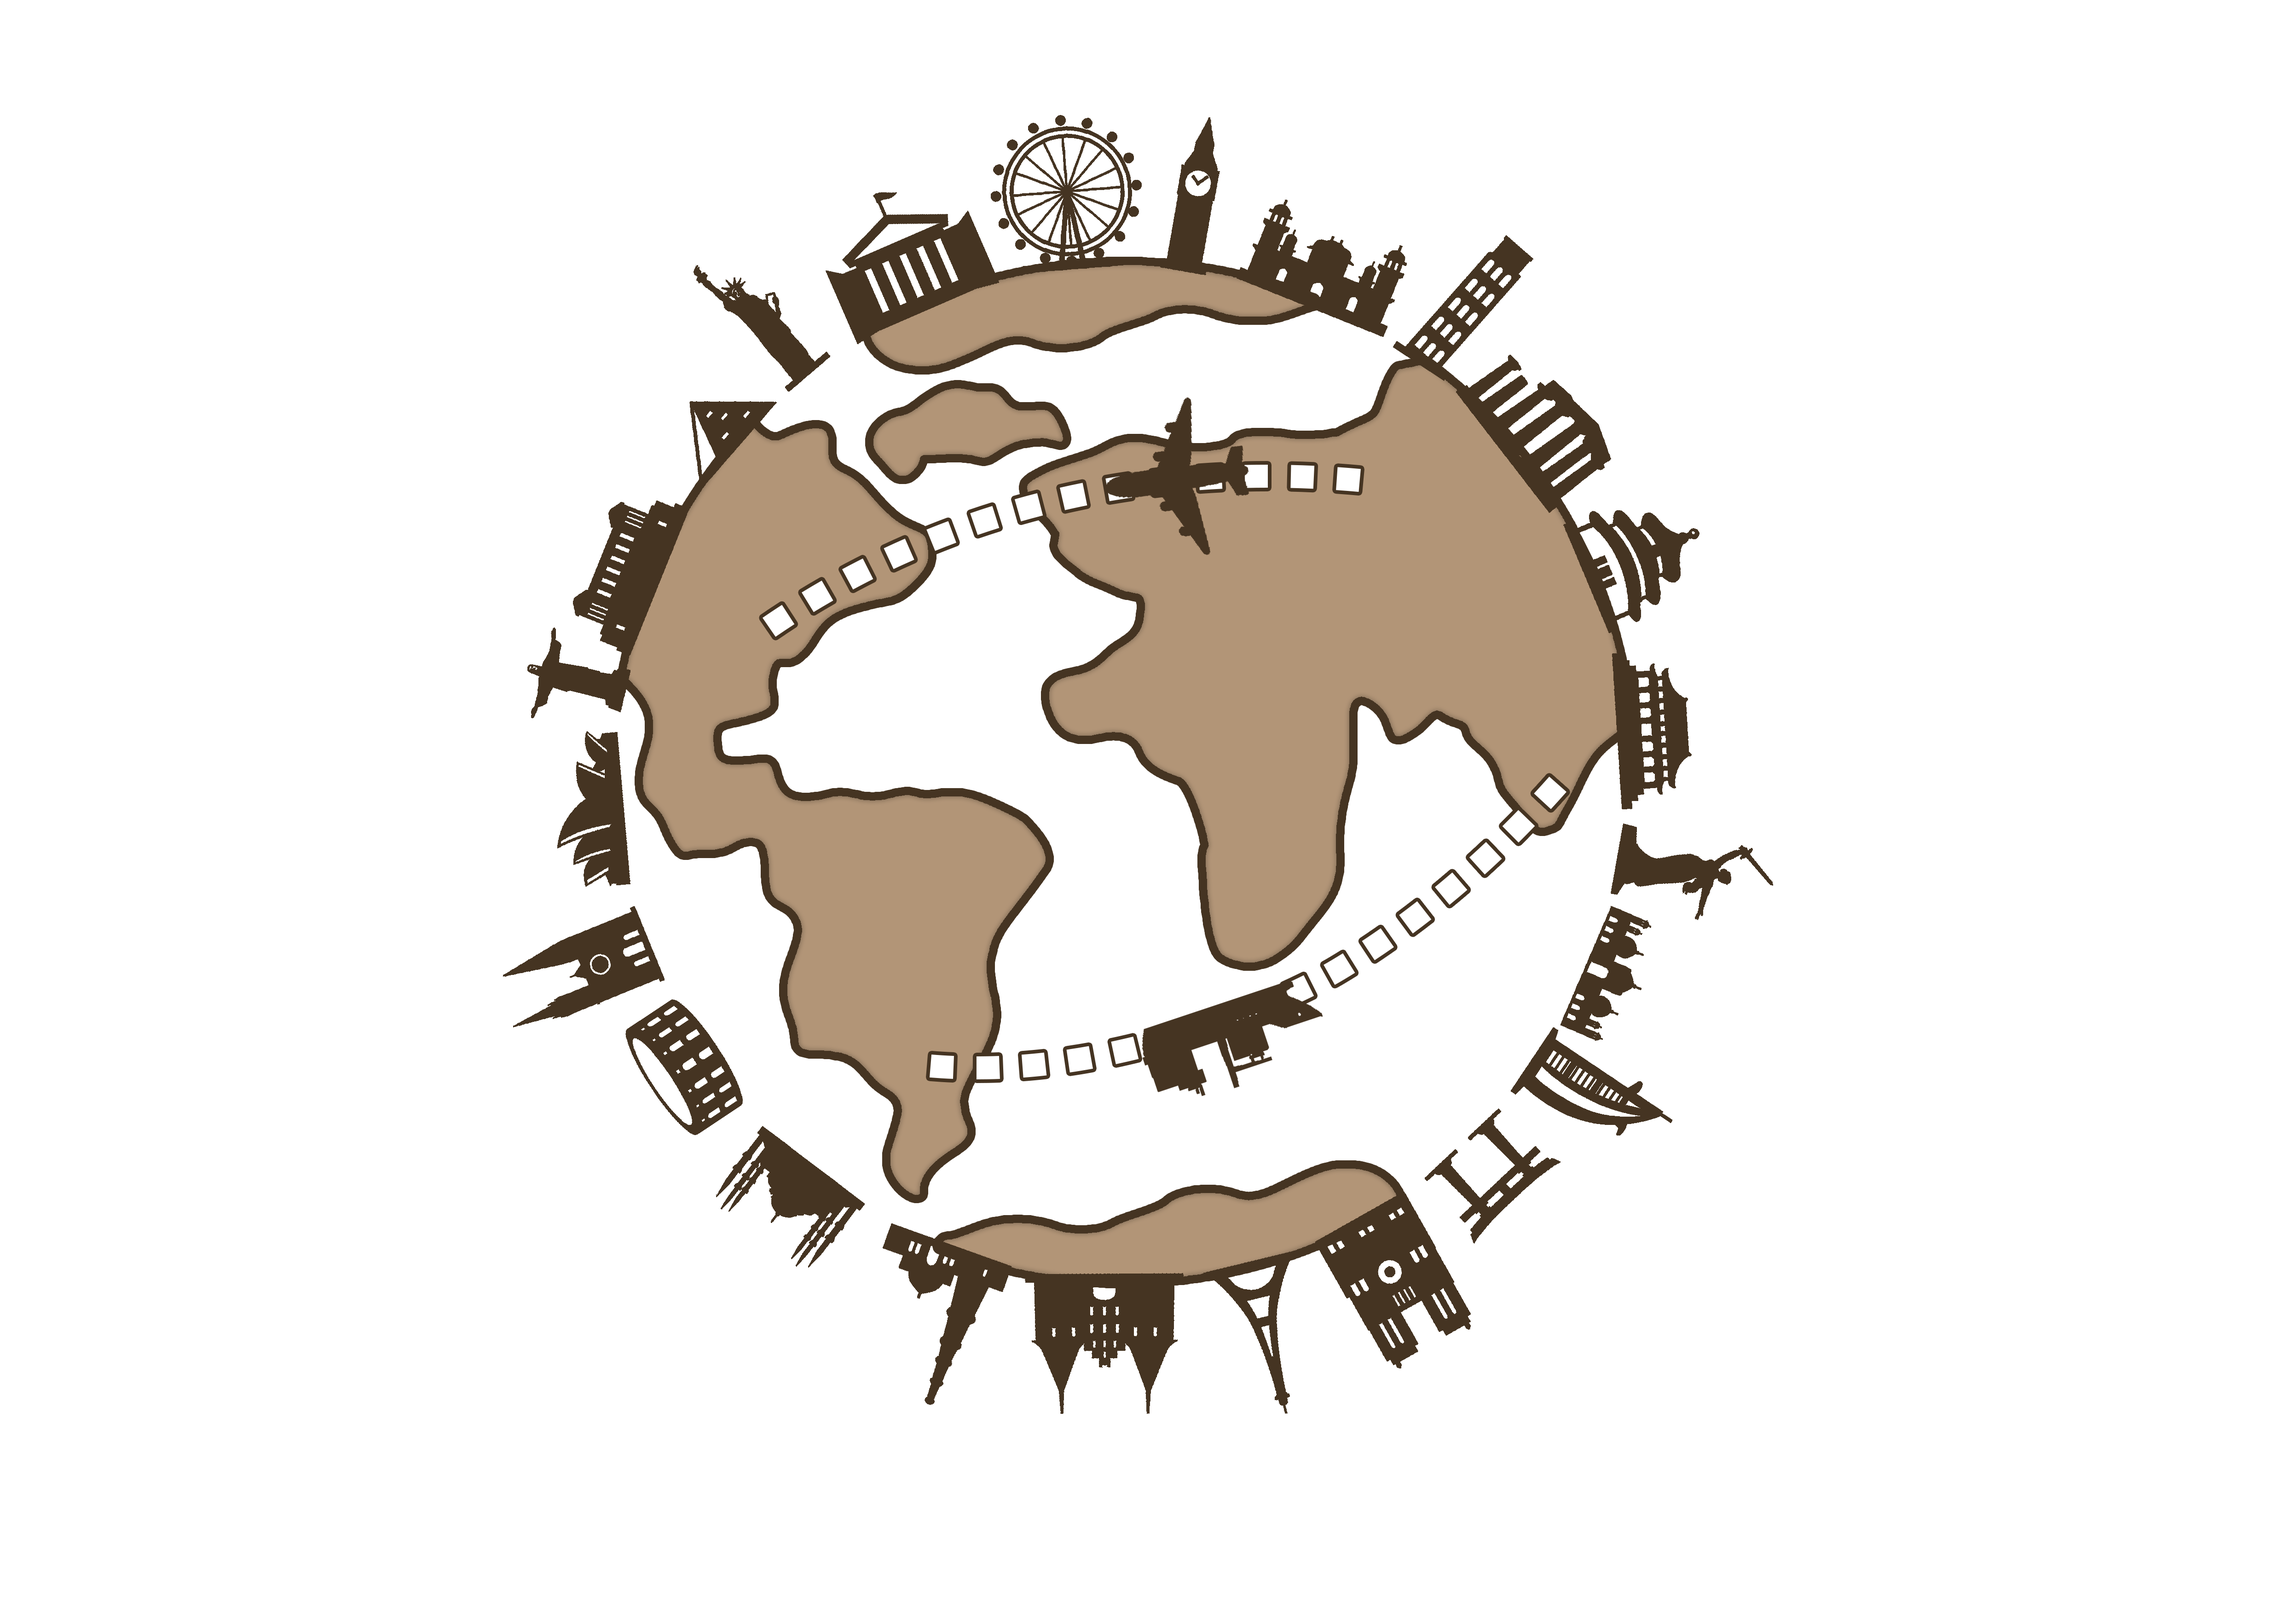
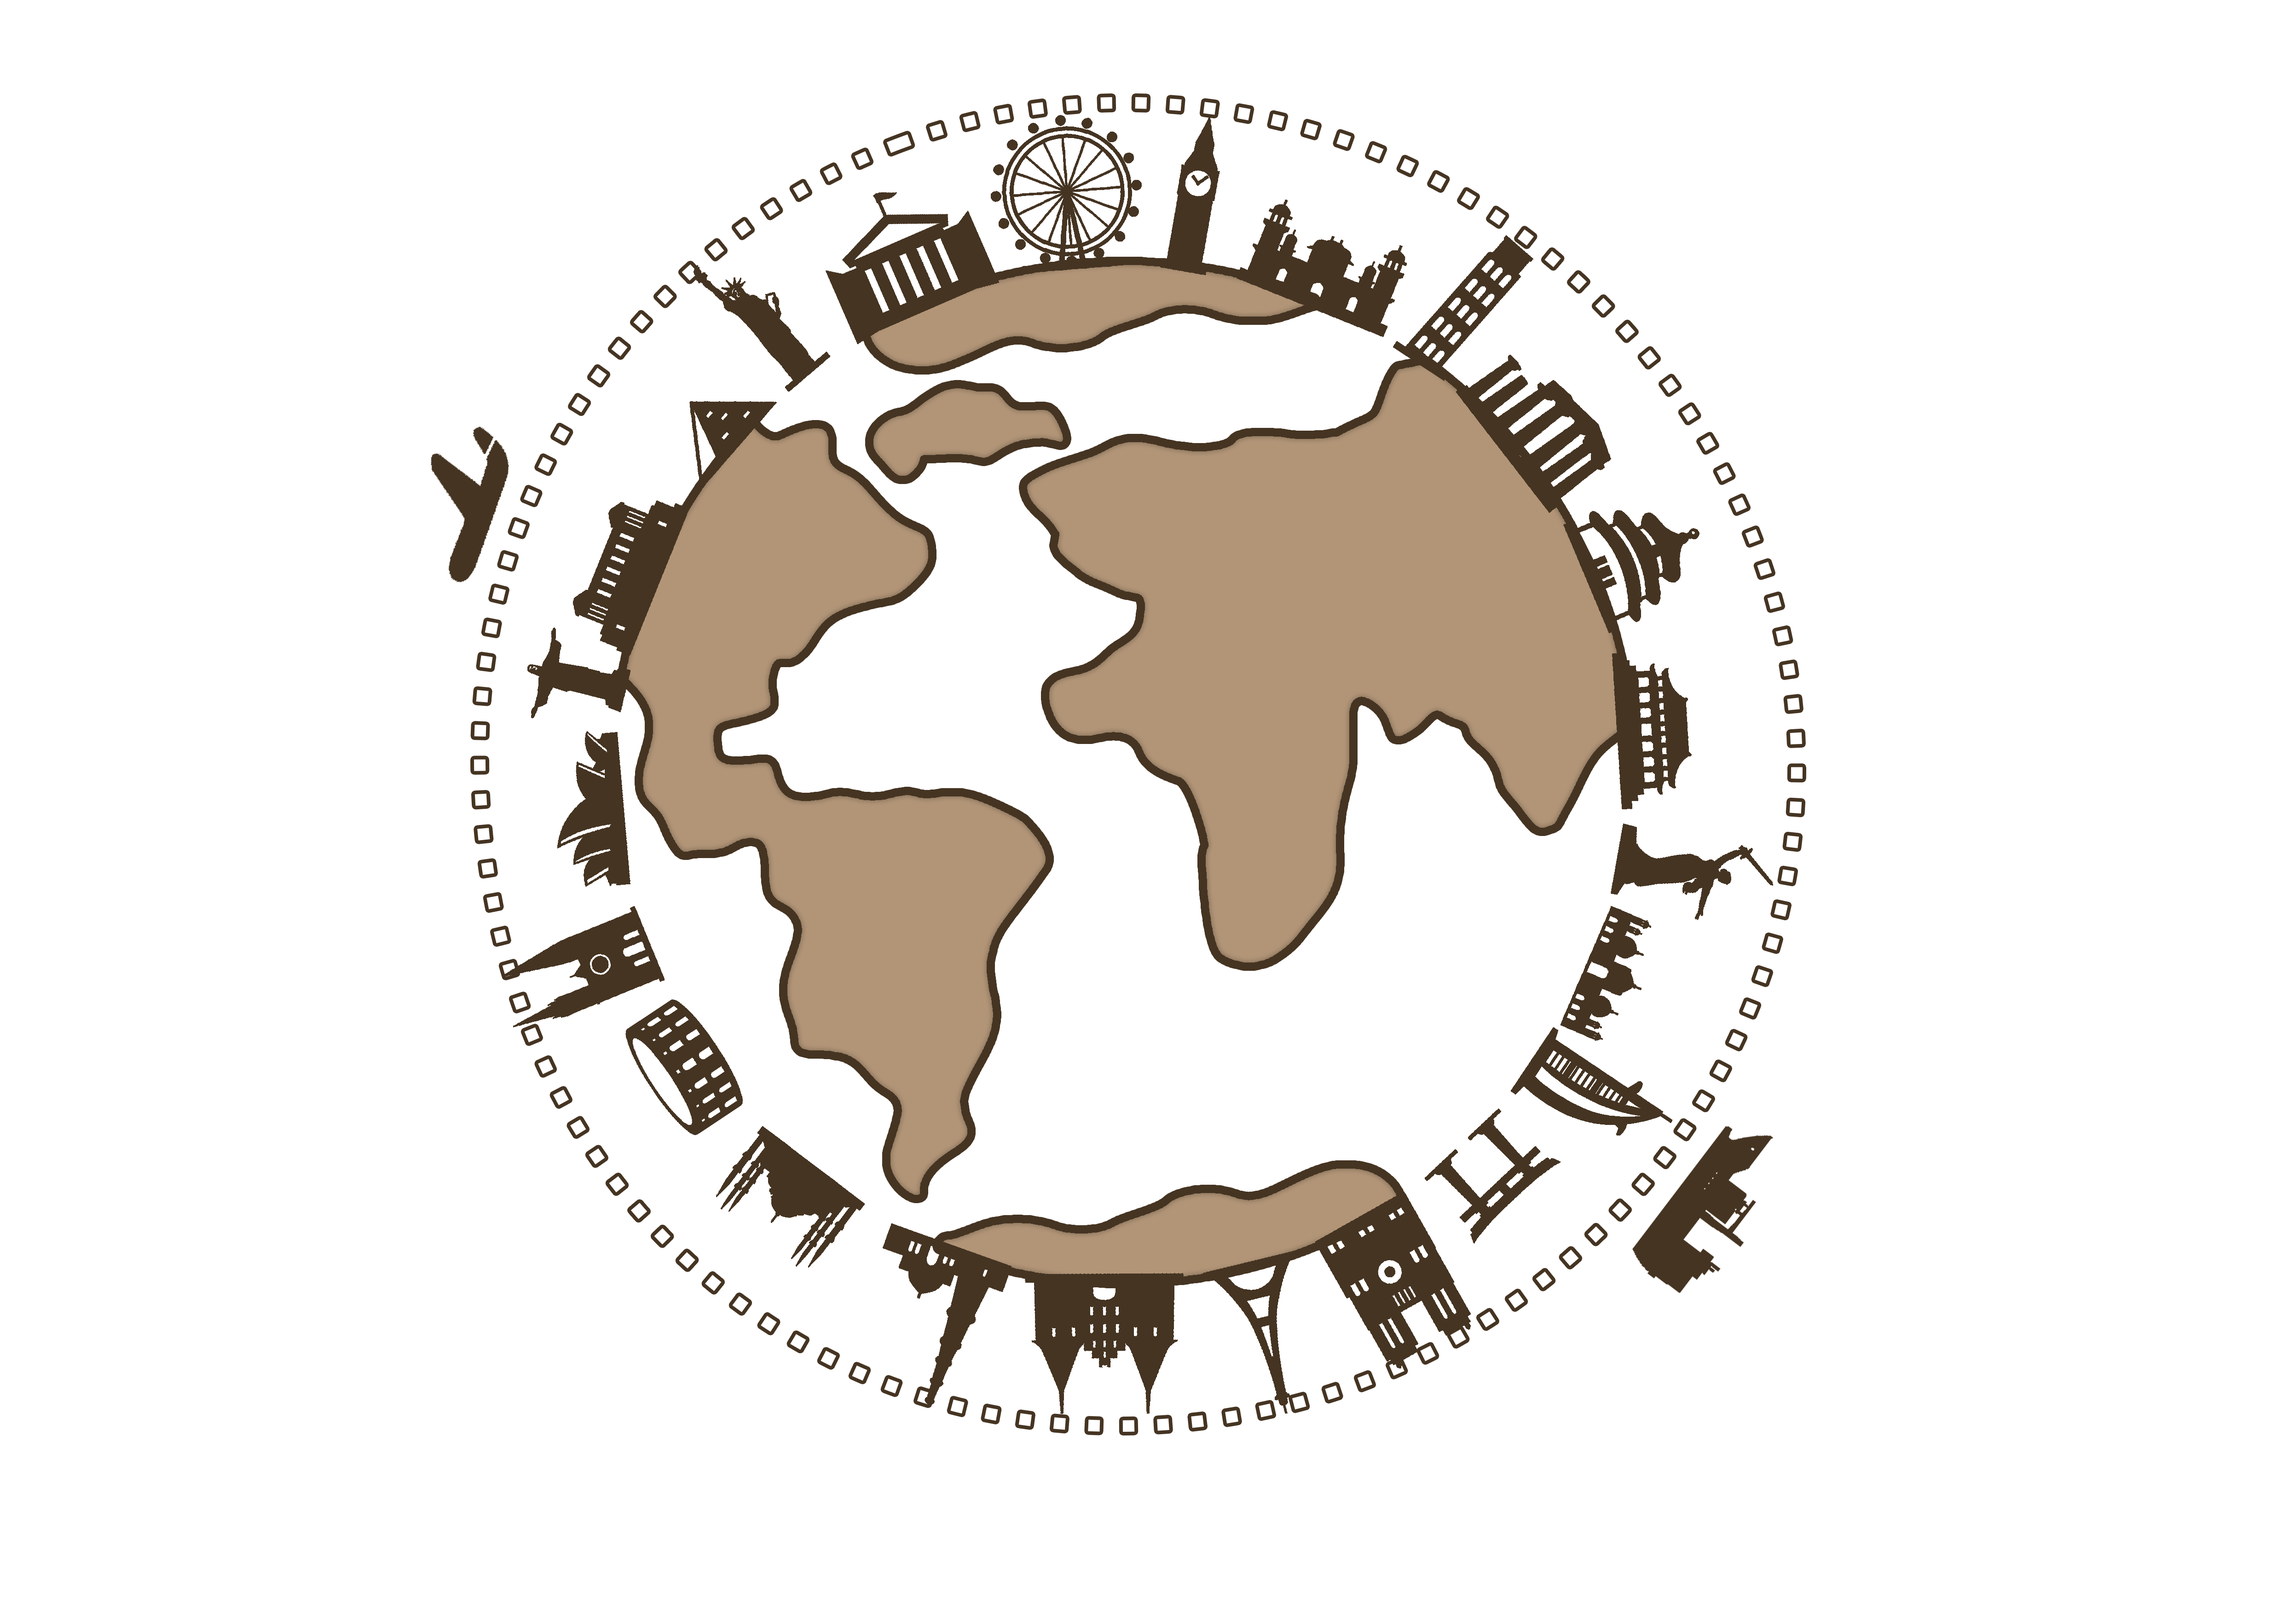
粒子发散

diff --git a/coffee-floating.js b/coffee-floating.js
@@ -2,7 +2,7 @@ const container = document.querySelector(".coffee-floating");
 
 function createCoffeeBean() {
   const img = document.createElement("img");
-  img.src = "coffebeans.png"; // 可换成你自己的图
+  img.src = "image/coffebeans.png"; // 可换成你自己的图
   img.className = "coffee-bean";
 
   const size = 20 + Math.random() * 40;
@@ -25,3 +25,57 @@ setInterval(() => {
     createCoffeeBean();
   }
 }, 1000);
+//20250504新增咖啡雨特效
+
+const canvas = document.getElementById("coffee-halo");
+const ctx = canvas.getContext("2d");
+
+canvas.width = 1500;
+canvas.height = 600;
+
+const center = {x: 725, y: 550};// 球心位置
+const particles = [];
+
+function createRing() {
+  const count = 100; // 粒子数量
+  for (let i = 0; i < count; i++) {
+    const angle = (2 * Math.PI * i) / count;
+    particles.push({
+      angle,
+      radius: 450 + Math.random() * 40, // 起始半径
+      speed: 0.5 + Math.random() * 0.5,
+      alpha: 1,
+      size: 2 + Math.random() * 2,
+    });
+  }
+}
+
+function animate() {
+  ctx.clearRect(0, 0, canvas.width, canvas.height);
+
+  // 每隔一段时间创建新光圈
+  if (Math.random() < 0.02) {
+    createRing();
+  }
+
+  for (let i = particles.length - 1; i >= 0; i--) {
+    const p = particles[i];
+    p.radius += p.speed;
+    p.alpha -= 0.005;
+
+    const x = center.x + p.radius * Math.cos(p.angle);
+    const y = center.y + p.radius * Math.sin(p.angle);
+
+    ctx.beginPath();
+    ctx.arc(x, y, p.size, 0, Math.PI * 2);
+    ctx.fillStyle = `rgba(255, 255, 255, ${p.alpha})`; // 白色
+    ctx.fill();
+
+    if (p.alpha <= 0) {
+      particles.splice(i, 1);
+    }
+  }
+
+  requestAnimationFrame(animate);
+}
+animate();

diff --git a/style.css b/style.css
@@ -77,6 +77,7 @@
   .btn:hover {
     background-color: #5c2e0c;
   }
+  
 /* 首页样式 */ 
   #homepage {
     background: linear-gradient(180deg, #fff3e4, #eed6c4);
@@ -96,12 +97,13 @@
     font-size: 3.5rem;
     margin-bottom: 1rem;
   }
-  
+ 
   #homepage p {
     font-size: 1.5rem;
     max-width: 600px;
   }
 
+/* 咖啡豆下雨样式 */ 
   .coffee-floating {
     position: absolute;
     top: 0;
@@ -113,7 +115,6 @@
     overflow: hidden;
   }
   
-  /* 咖啡豆样式 */
   .coffee-bean {
     position: absolute;
     width: 40px;
@@ -135,12 +136,13 @@
     }
   }
 
+/* 转转地球样式 */
   .earth-container {
     position: absolute;
     bottom: 0;
     left: 50%;
     transform: translateX(-50%);
-    width: 1200px;
+    width: 1500px;
     height: 600px;
     overflow: hidden;
     pointer-events: none;
@@ -148,14 +150,23 @@
   }
   
   .earth {
-    width: 1200px;
+    width: 1500px;
     height: auto;
     animation: spinEarth 30s linear infinite;
   }
   
   @keyframes spinEarth {
-    0% { transform: rotate(0deg); }
-    100% { transform: rotate(360deg); }
+    0% { transform: rotate(360deg); }
+    100% { transform: rotate(0deg); }
   }
-  
+
+/* 粒子发散样式 */  
+  #coffee-halo {
+    position: absolute;
+    bottom: 0;
+    left: 50%;
+    transform: translateX(-50%);
+    pointer-events: none;
+    z-index: 0;
+  }
   

diff --git a/index.html b/index.html
@@ -5,7 +5,7 @@
     <meta name="viewport" content="width=device-width, initial-scale=1.0"/>
     <title>Coffee's Story</title>
     <link rel="stylesheet" href="style.css" />
-    <link rel="icon" href="https://github.com/meimao76/coffeestory/blob/main/coffeecup.png?raw=true" type="image/x-icon">
+    <link rel="icon" href="image/coffeecup.png" type="image/x-icon">
 </head>
 
 <body>
@@ -27,7 +27,8 @@
         <div class="coffee-floating"></div>
         <div class="earth-container">
             <img src="image/globe.png" alt="Earth" class="earth" />
-        </div>          
+        </div>
+        <canvas id="coffee-halo"></canvas> 
         <h1>Cafe Road</h1>
         <p>From Coffee Farms to Global Cities: A Trade & Culture Network</p>
     </section>
